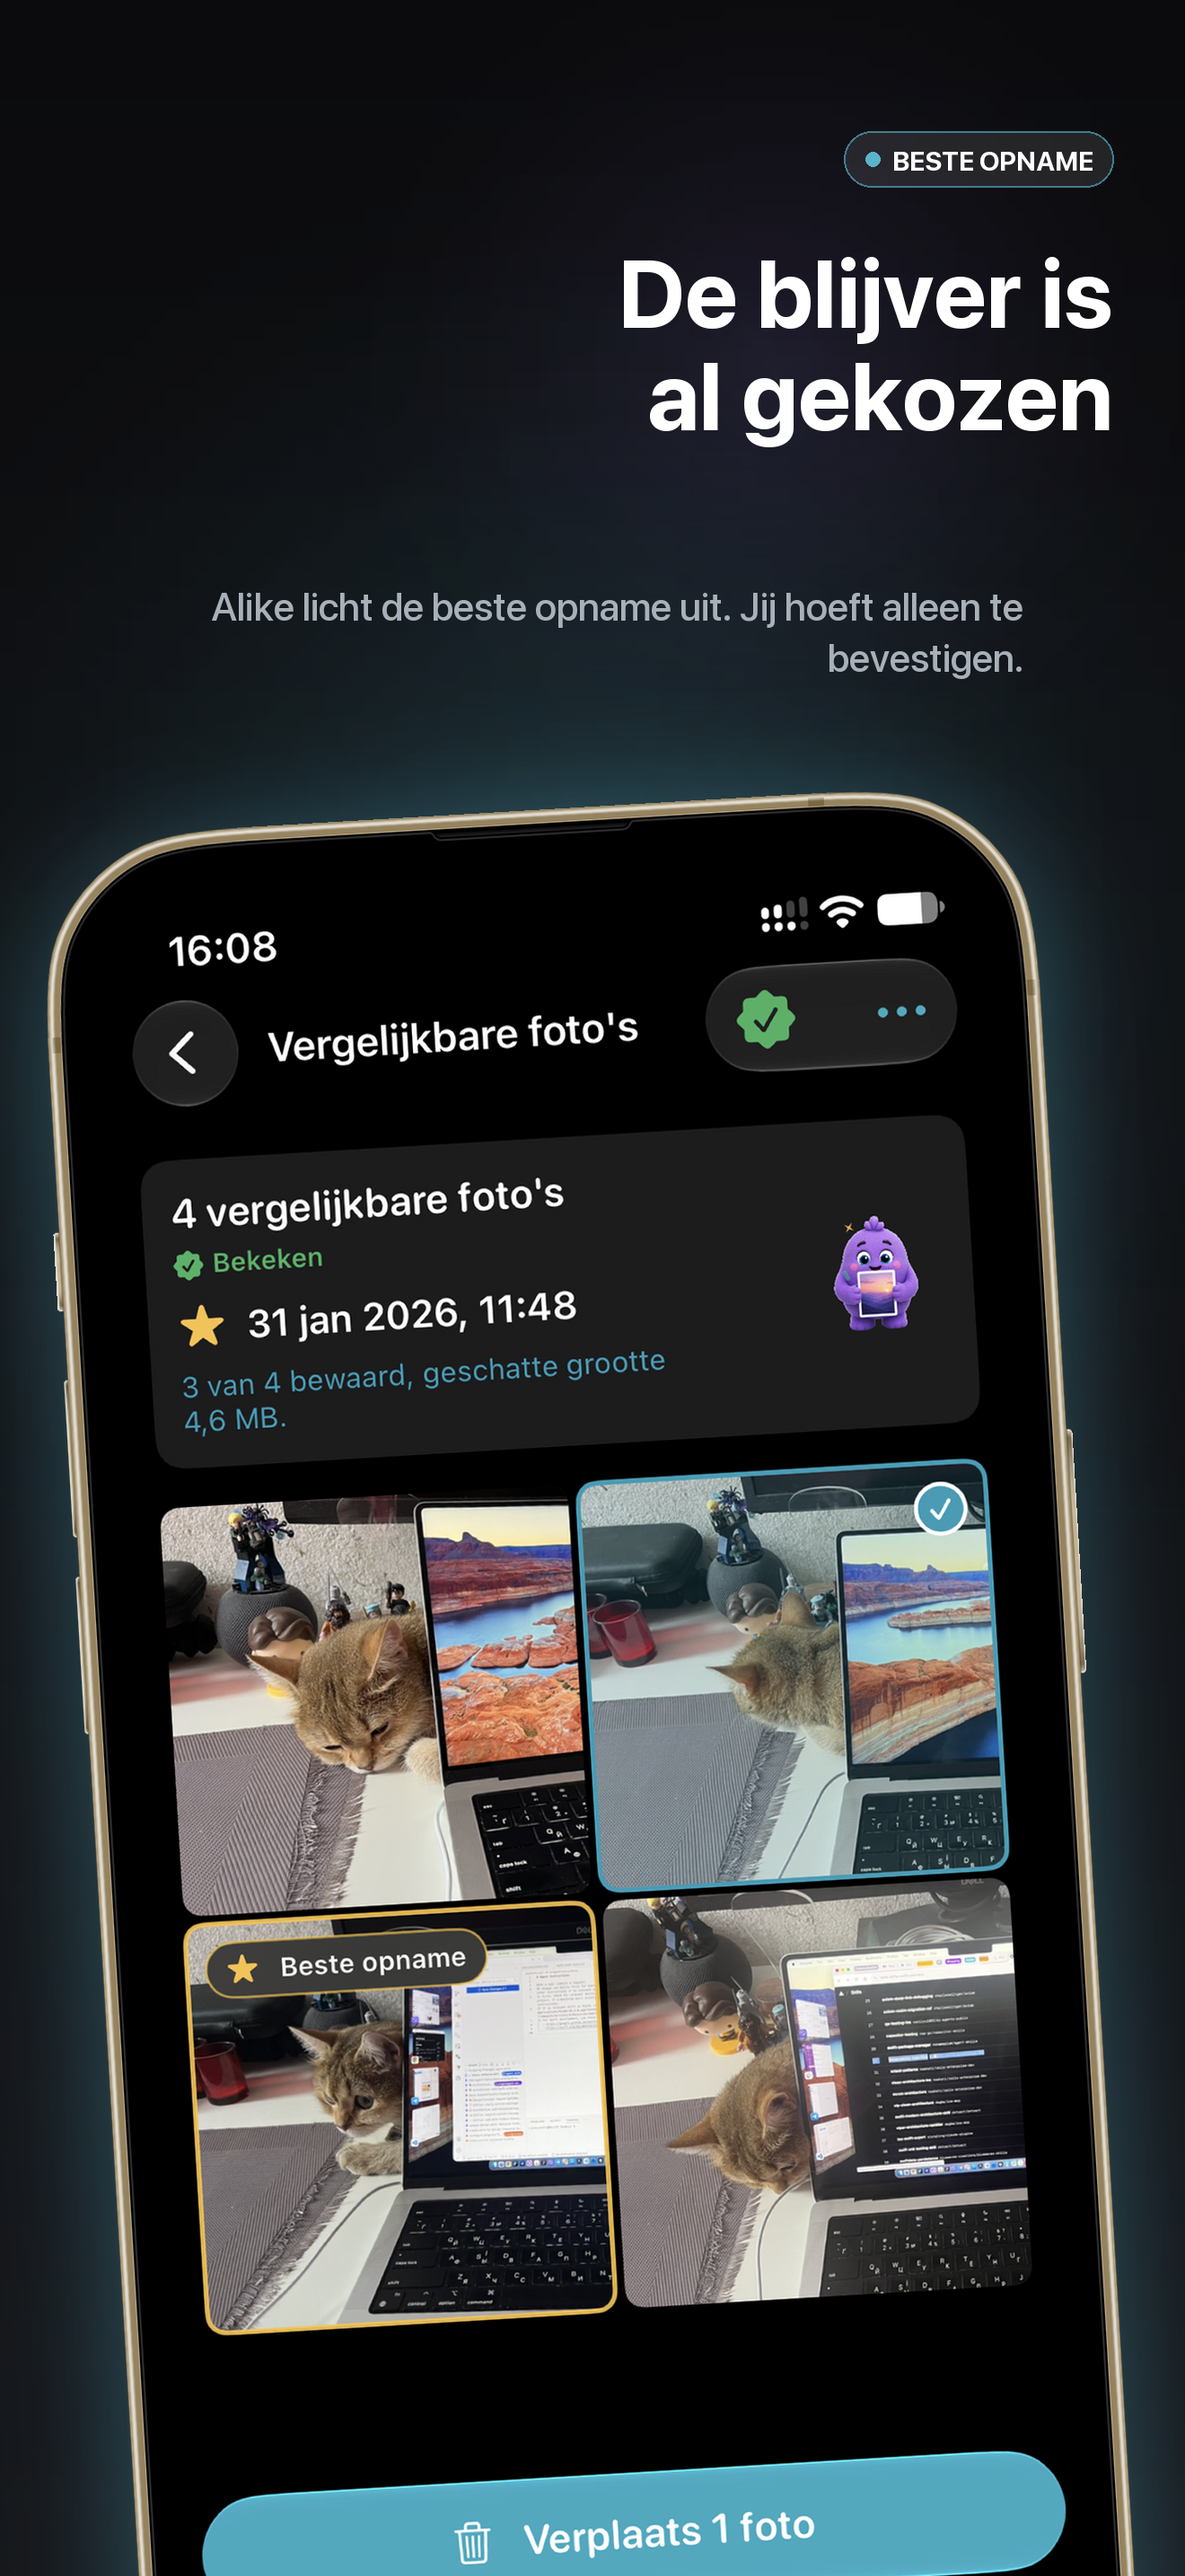
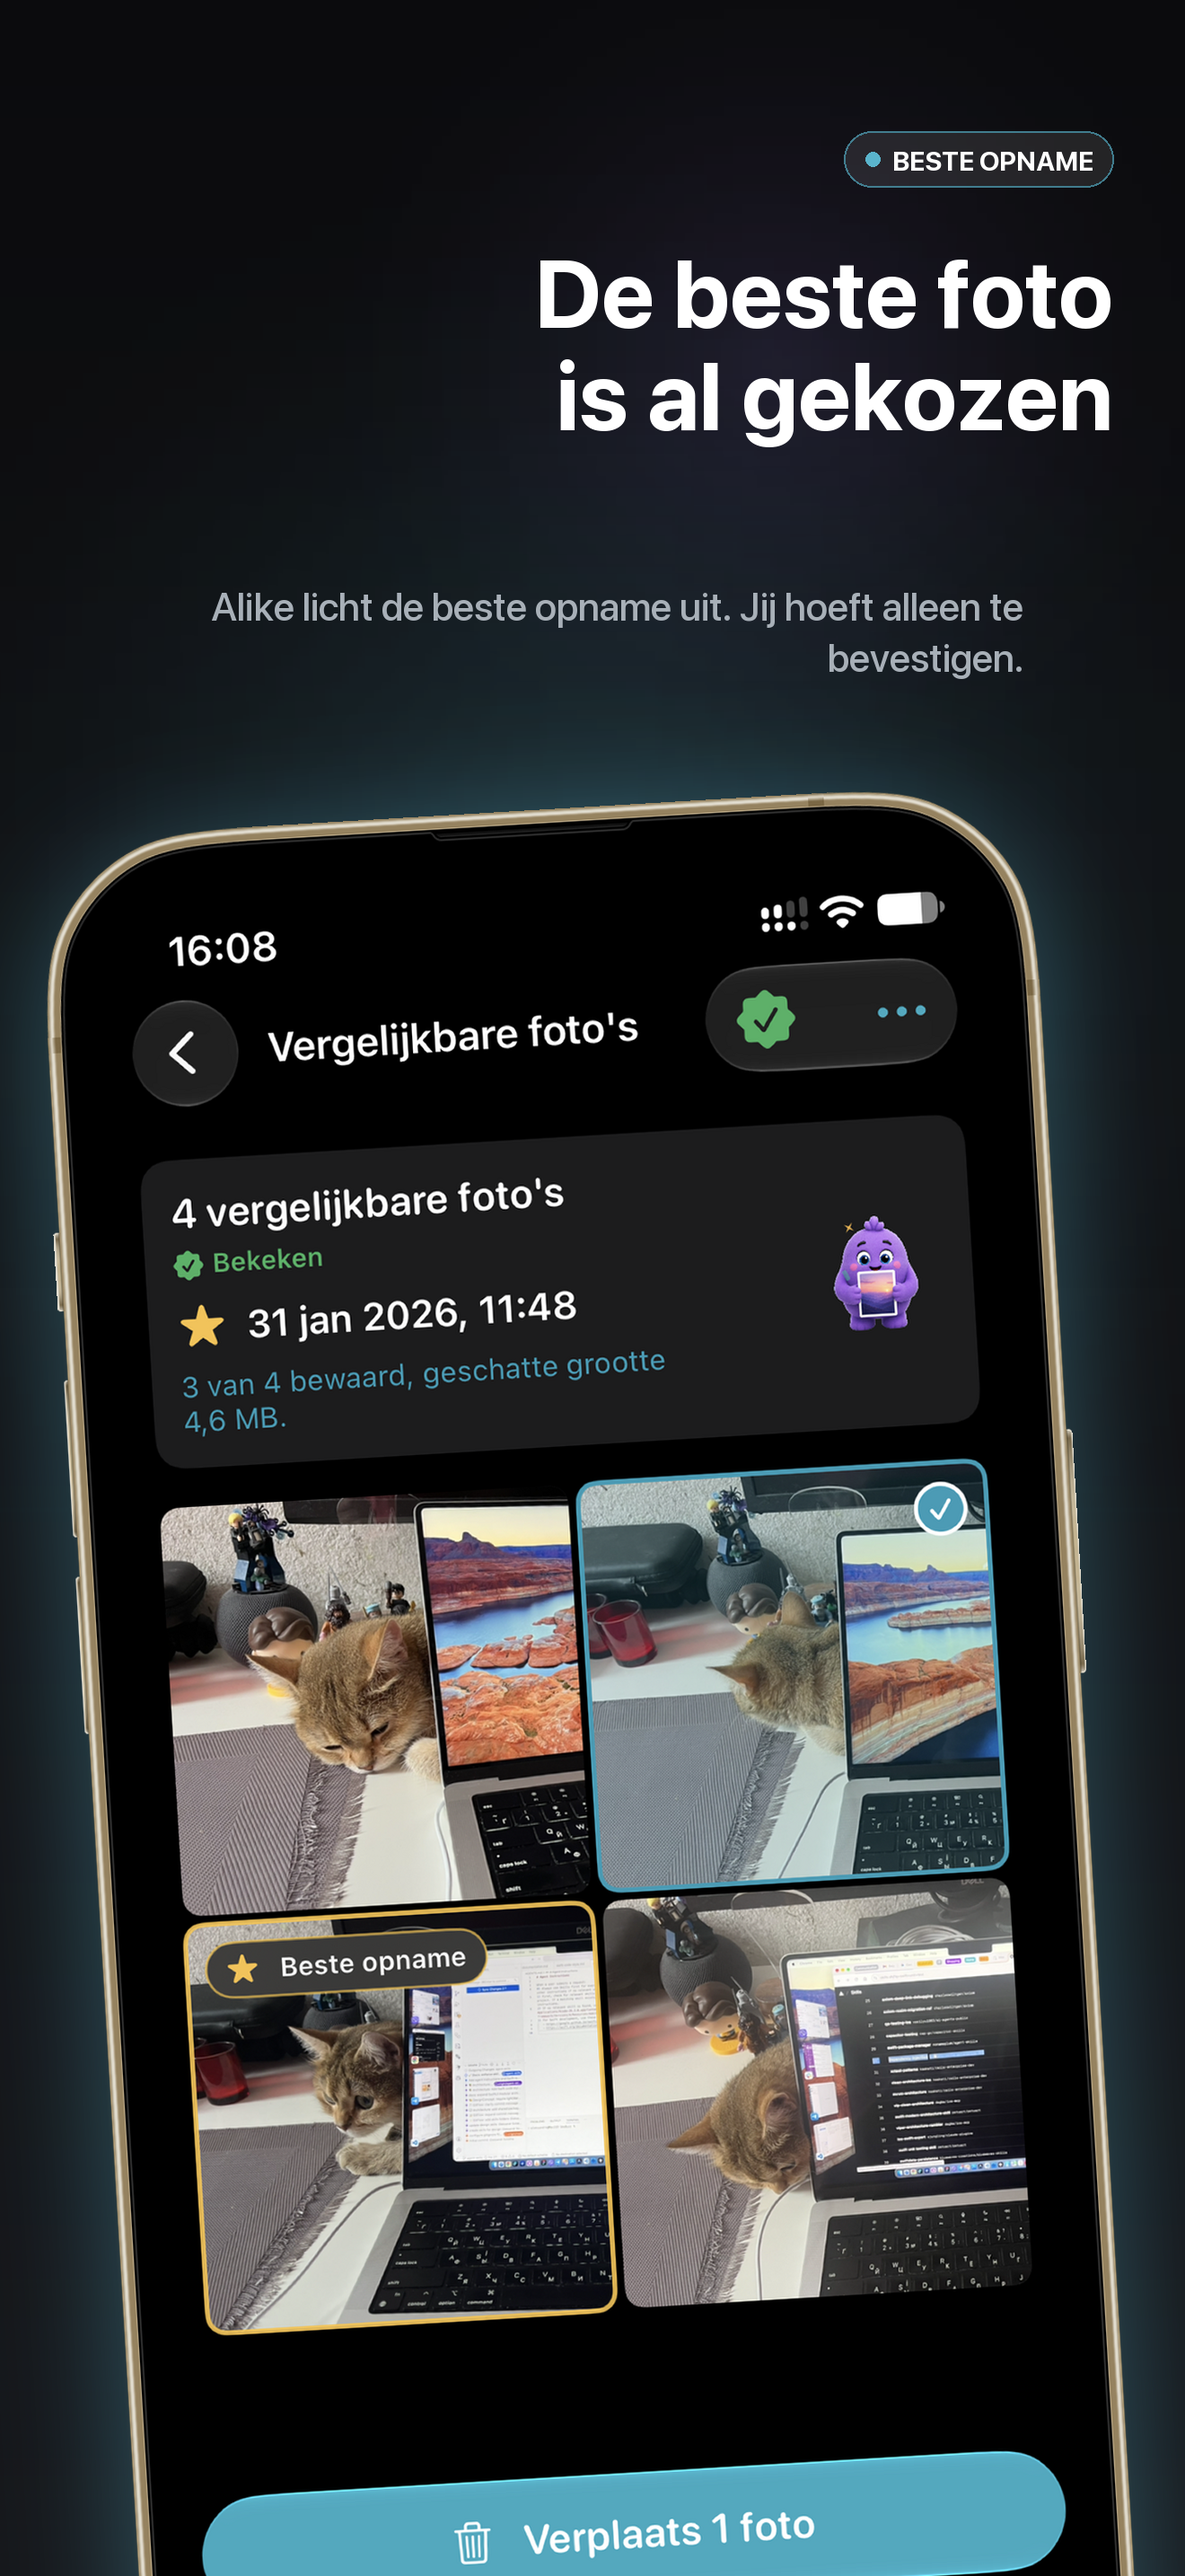
🌐 nl: correct high-risk localization and App Store wording while preserving English promises, placeholders and plural categories

Changed region(s): [[0.4348, 0.0931, 0.9318, 0.1862]]

diff --git a/tools/prepare_app_store_upload_bundle.py b/tools/prepare_app_store_upload_bundle.py
@@ -1256,6 +1256,88 @@ METADATA.update(
 )
 
 
+# Reviewed storefront copy; keep regional listings independent.
+METADATA['nl-NL'].update(
+    {'description': "Alike groepeert bijna gelijke foto's, kiest de beste en helpt je de rest op te ruimen. Geen "
+                'foto verlaat je iPhone.\n'
+                '\n'
+                'ZO WERKT HET\n'
+                'Scannen. Alike vergelijkt je bibliotheek met Apples Vision-framework, volledig op je '
+                "iPhone. Foto's die qua tijd en plaats dicht bij elkaar liggen worden vergeleken, en "
+                'schermafbeeldingen blijven buiten de resultaten tenzij je erom vraagt.\n'
+                'Bekijken. De beste foto is al geselecteerd. Bewaar alleen die foto, selecteer alle andere '
+                'of kies zelf.\n'
+                "Opruimen. Bevestig, en de foto's die je koos gaan naar 'Recent verwijderd', waar iOS ze "
+                "ongeveer 30 dagen bewaart. Er komt mogelijk pas ruimte vrij nadat je de foto's definitief "
+                'hebt verwijderd.\n'
+                '\n'
+                'JE PRIVACY STAAT VOOROP\n'
+                '- Alle analyse draait op het apparaat met Apples Vision-framework.\n'
+                '- Geen foto, miniatuur of kenmerkafdruk wordt ooit geüpload.\n'
+                '- Geen account, geen inloggen, geen Alike-server.\n'
+                "- Geen analytics, geen tracking, geen advertentie-id's.\n"
+                '- Nergens in de app advertenties.\n'
+                '- Scannen en opruimen hebben helemaal geen verbinding nodig — Alike werkt in '
+                'vliegtuigmodus.\n'
+                '- Er wordt niets verwijderd zonder je uitdrukkelijke bevestiging.\n'
+                '\n'
+                'GEMAAKT VOOR ECHTE BIBLIOTHEKEN\n'
+                '- Drie niveaus van gevoeligheid, van bijna identieke opnamen tot minder vergelijkbare '
+                "foto's.\n"
+                "- Herkenning van de beste opname, gemeten aan de foto's zelf — scherpte, belichting, "
+                'gezichten en ruis — zodat elke groep een verstandige keuze klaar heeft staan.\n'
+                '- Optionele verbetering met één tik voor de foto die je houdt, het origineel altijd één tik '
+                'verderop.\n'
+                '- Statuslabels: Nieuw, Wordt bekeken, Bekeken en Moet worden bekeken na een nieuwe scan.\n'
+                "- Voeg foto's toe of verwijder ze en Alike merkt het, en toont alleen de groepen die "
+                'veranderd zijn — geen volledige nieuwe scan nodig.\n'
+                '- Voortgang, Geselecteerd en Geschatte besparing terwijl je werkt.\n'
+                '- Opruimgeschiedenis per maand, zodat je ziet hoeveel je al hebt teruggewonnen.\n'
+                '- Wissel tussen één kolom en een dichter raster. Alike onthoudt je keuze.\n'
+                '- Een doorzoekbare handleiding in de app, één tik vanaf de Scanner.\n'
+                '- Optionele opruimherinneringen als lokale berichtgevingen, op je eigen schema.\n'
+                '- Widgets op je beginscherm en je toegangsscherm: vrij te maken ruimte en je bibliotheek.\n'
+                '- Dertien talen en volledige donkere modus.\n'
+                '\n'
+                'JIJ HOUDT DE CONTROLE\n'
+                '- Verbeteren is niet destructief: het origineel blijft in je bibliotheek en één tik zet het '
+                'terug.\n'
+                '- Alike leert van de beste opnamen die je zelf kiest — op je apparaat, en je kunt dat '
+                'altijd resetten in Instellingen.\n'
+                '- Instellingen, dan Gegevens en privacy, dan Verwijder Alike-gegevens wist scanresultaten, '
+                'opruimgeschiedenis en voorkeuren — en raakt je fotobibliotheek nooit aan.\n'
+                '- Geef volledige of beperkte toegang: Alike werkt met wat jij besluit te delen.\n'
+                '\n'
+                'ALIKE FREE\n'
+                '- 3 scans per kalendermaand\n'
+                '- Begeleid bekijken met de beste opname\n'
+                '- Verbetering met één tik, altijd terug te draaien\n'
+                '- Beste opname die leert van je eigen keuzes\n'
+                '- Sorteren en opruimgeschiedenis\n'
+                '- Eén foto tegelijk opruimen\n'
+                '- Widgets\n'
+                '\n'
+                'ALIKE PRO\n'
+                '- 7 dagen gratis op het jaarabonnement, voor nieuwe abonnees die daarvoor in aanmerking '
+                'komen\n'
+                '- Onbeperkt scannen\n'
+                '- Hele selecties in één keer opruimen\n'
+                '- Schermafbeeldingen opruimen\n'
+                "- Wazige foto's opruimen\n"
+                '- Geavanceerde filters\n'
+                '- Eigen opruimherinneringen\n'
+                '\n'
+                'Alike Pro is een abonnement met automatische verlenging, met een jaar- en een maandplan, '
+                'geprijsd in je eigen valuta. Het jaarabonnement bevat een gratis proefperiode van 7 dagen '
+                'voor nieuwe abonnees die daarvoor in aanmerking komen, en de facturering begint zodra de '
+                'proefperiode afloopt. Abonnementen worden automatisch verlengd, tenzij ze minstens 24 uur '
+                'voor het einde van de huidige periode worden opgezegd. Het bedrag wordt afgeschreven van je '
+                'Apple Account. Je kunt je abonnement altijd beheren of opzeggen in de iOS-instellingen.',
+ 'promotional_text': 'Bekijk de geschatte ruimtewinst. Foto’s blijven op je iPhone. Jaarabonnement: 7 dagen '
+                     'Pro gratis voor nieuwe abonnees die in aanmerking komen. Geen reclame of account.'}
+)
+
+
 def parse_args() -> argparse.Namespace:
     parser = argparse.ArgumentParser(description="Prepare Alike App Store metadata and screenshots for fastlane deliver.")
     parser.add_argument(

diff --git a/tools/generate_app_store_product_screenshots.py b/tools/generate_app_store_product_screenshots.py
@@ -625,7 +625,7 @@ COPY = {
         ),
         (
             "BESTE OPNAME",
-            "De blijver is\nal gekozen",
+            "De beste foto\nis al gekozen",
             "Alike licht de beste opname uit. Jij hoeft alleen te bevestigen.",
         ),
         (
@@ -640,7 +640,7 @@ COPY = {
         ),
         (
             "ALTIJD OMKEERBAAR",
-            "Maak de blijver beter,\nhoud het origineel",
+            "Verbeter je foto,\nbehoud het origineel",
             "Eén tik maakt de beste opname beter. Eén tik zet hem terug — het origineel blijft in je bibliotheek.",
         ),
         (
